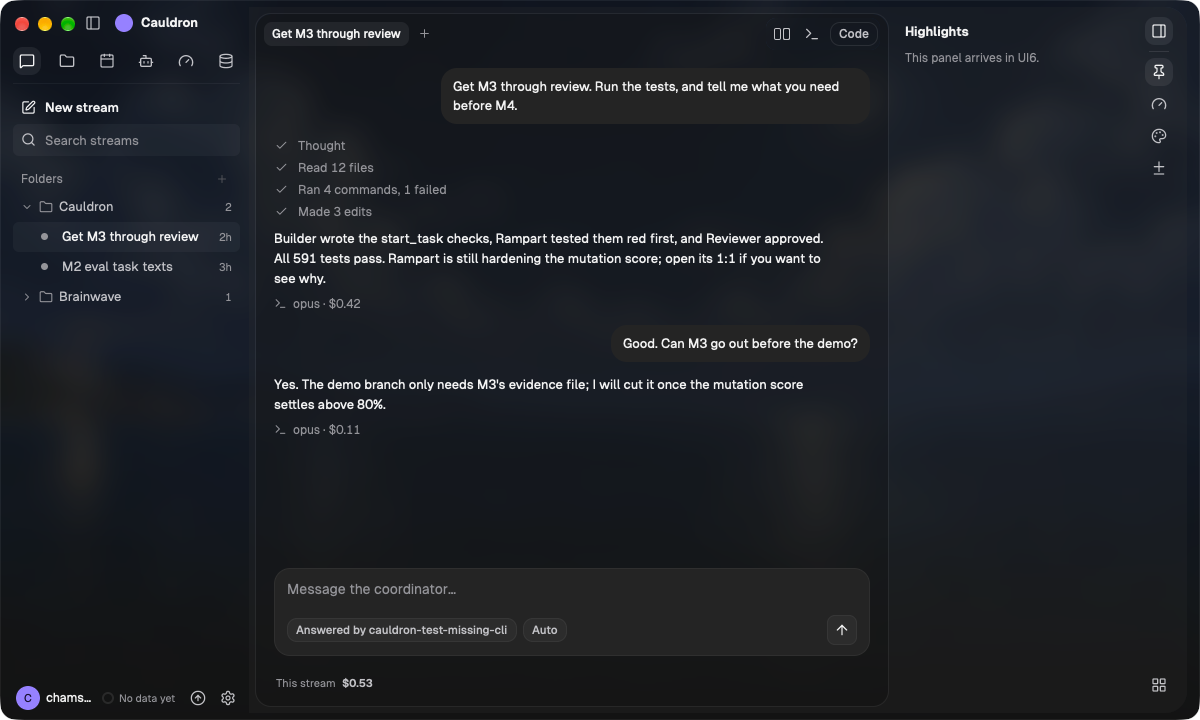
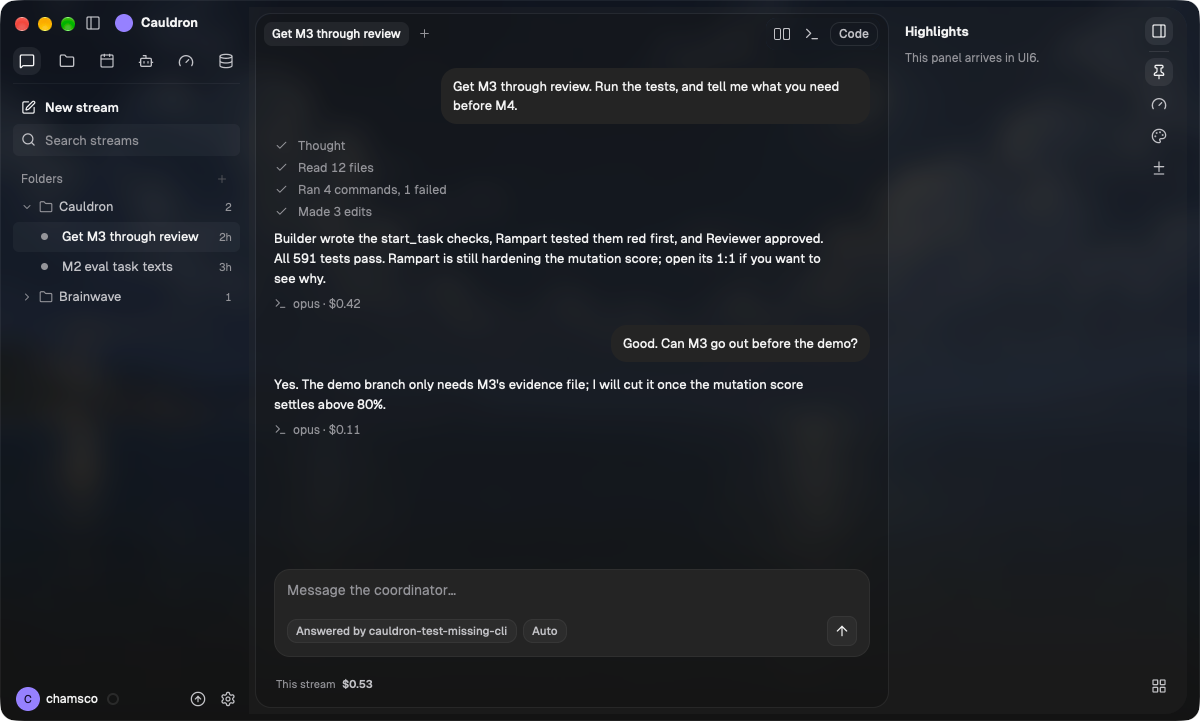
Footer: ring only without usage data; drawer and composer text truncate

diff --git a/crates/app/src/shell/pages.rs b/crates/app/src/shell/pages.rs
@@ -331,8 +331,8 @@ impl Cauldron {
                 .text_size(px(13.))
                 .text_color(c(pal.fg4))
                 .aria_label("Not connected")
-                .child(div().flex_1().child(format!("Not connected: messages to {title} are not sent yet")))
-                .child(div().size(px(28.)).rounded_full().flex().items_center().justify_center().bg(c(pal.hover)).child(glyph("arrow-up", 14., c(pal.fg4)))),
+                .child(div().flex_1().min_w_0().truncate().child(format!("Not connected: messages to {title} are not sent yet")))
+                .child(div().flex_none().size(px(28.)).rounded_full().flex().items_center().justify_center().bg(c(pal.hover)).child(glyph("arrow-up", 14., c(pal.fg4)))),
             "Demo: not built yet",
             Side::Right,
             pal,
@@ -384,9 +384,11 @@ impl Cauldron {
                 .flex()
                 .items_center()
                 .gap(px(8.))
+                .flex_1()
+                .min_w_0()
                 .aria_label(format!("{label} {pct}% (example)"))
                 .child(div().size(px(36.)).flex_none().rounded_full().border_2().border_color(if pct >= 80 { c(pal.warn) } else { c(pal.line_strong) }).flex().items_center().justify_center().text_size(px(10.)).font_weight(FontWeight::SEMIBOLD).text_color(fg).child(format!("{pct}%")))
-                .child(div().flex().flex_col().child(div().text_size(px(11.)).text_color(fg2).child(label)).child(div().text_size(px(10.)).text_color(fg3).child(sub)))
+                .child(div().flex_1().min_w_0().flex().flex_col().child(div().truncate().text_size(px(11.)).text_color(fg2).child(label)).child(div().truncate().text_size(px(10.)).text_color(fg3).child(sub)))
                 .test_support()
         };
         let mut tree = div().id("context-treemap").h(px(64.)).flex().gap(px(2.));
@@ -407,7 +409,7 @@ impl Cauldron {
             .flex_col()
             .gap(px(8.))
             .child(div().flex().items_center().gap(px(8.)).child(figure(a.dot, a.mood, 30., false)).child(div().flex_1().min_w_0().flex().flex_col().child(div().text_size(px(14.)).font_weight(FontWeight::SEMIBOLD).text_color(fg).child(a.name.clone())).child(div().truncate().text_size(px(11.)).text_color(fg3).child(a.job.clone()))).child(tag("drawer-example", "Example", pal).test_support()))
-            .child(div().flex().gap(px(16.)).child(ring("ring-week", 91, "Weekly", "Resets Mon 09:00")).child(ring("ring-5h", 12, "5-hour", "12% of 5 hours")))
+            .child(div().flex().gap(px(10.)).child(ring("ring-week", 91, "Weekly", "Resets Mon")).child(ring("ring-5h", 12, "5-hour", "12% used")))
             .child(head("Current task"))
             .child(div().p(px(8.)).rounded(px(radius::INNER)).bg(c(pal.inset)).text_size(px(12.)).text_color(fg2).child(if a.name == "Librarian" { "Reading the room and filing two notes to the Friday demo folder." } else { "Reading the receipt flow and splitting the work." }))
             .child(head("Context"))

diff --git a/crates/app/src/shell.rs b/crates/app/src/shell.rs
@@ -813,8 +813,8 @@ impl Cauldron {
             .text_color(fg3)
     }
 
-    /// Usage: a ring and its number where core reports usage, "No data yet" until then; hovering
-    /// shows the card, a click opens the Usage page. Core has no per-subscription usage yet.
+    /// Usage: a ring (with its number where core reports usage; with none, "No data yet" is in its
+    /// name and tip, so the user's name keeps its room); a click opens the Usage page. Core has no per-subscription usage yet.
     fn usage_ring(&self, id: &'static str, pal: &'static Palette, cx: &mut Context<Self>) -> Stateful<Div> {
         let rail = id == "rail-usage";
         let el = div()
@@ -823,18 +823,17 @@ impl Cauldron {
             .flex()
             .items_center()
             .gap(px(5.))
-            .px(px(if rail { 0. } else { 4. }))
+            .p(px(if rail { 0. } else { 3. }))
             .rounded(px(radius::TAG))
             .cursor_pointer()
             .hover(|d| d.bg(c(pal.hover)))
             .aria_label("No data yet")
             .child(div().size(px(if rail { 20. } else { 12. })).my(px(if rail { 4. } else { 0. })).rounded_full().border_2().border_color(c(pal.line_strong)))
-            .when_live(!rail, |d| d.child(div().text_size(px(10.5)).text_color(c(pal.fg3)).child("No data yet")))
             .on_click(cx.listener(|this, _, _, cx| {
                 this.open_page(pages::AppPage::Usage);
                 cx.notify();
             }));
-        self.tipped((id, 1usize), el, "Usage: no data yet. Core does not report it per subscription.", if rail { Side::Right } else { Side::Right }, pal, cx)
+        self.tipped((id, 1usize), el, "Usage: no data yet. Core does not report it per subscription.", Side::Right, pal, cx)
     }
 
     /// The version, as a small button by the cog: it opens Settings > General, where the version

diff --git a/docs/cauldron/NEW-LOOK-BUILD.md b/docs/cauldron/NEW-LOOK-BUILD.md
@@ -295,7 +295,7 @@ These are Charles's 07:34Z list and 13:40Z note ("not as tabs, they need to repl
 - Move to folder is not built. A stream's project is where its CLI runs (`chat.rs`: "the project folder a CLI works in"), so moving one would change where it runs.
 
 **User row and folded rail.**
-- Unfolded: the name with usage beside it ("No data yet": core has no per-subscription usage), the version button (an icon; it opens Settings > General, which shows the version and says updates come from the release workflow), and the cog.
+- Unfolded: the name with the usage ring beside it (with no data, "No data yet" is in its tip: core has no per-subscription usage), the version button (an icon; it opens Settings > General, which shows the version and says updates come from the release workflow), and the cog.
 - Folded rail, top to bottom: a usage ring (empty), the three apps, search (opens the sidebar), New stream, a square per folder (its letter, a dot over a waiting stream; it opens the sidebar on that folder), then the version, the cog and the avatar at the foot.
 
 **The right rail.** It always stands at the Shell's right edge, its icons stacked: the drawer's toggle (lit while open), a hairline, then the panels (the open one lit). The open drawer sits beside it; there is no horizontal strip. The card is about 50px narrower with the drawer open, and the minimum-width rule closes Split and then the drawer a little sooner. Solver test red first: `NL12-rail-red.txt` / `NL12-rail-green.txt`.
@@ -336,7 +336,8 @@ The coordinator's board is `design/cauldron-destinations.html` (ac5ef7a on gg3og
 - Folded, the same six stack on the rail.
 
 **Usage:**
-- An empty ring and "No data yet" sit beside the name; core has no usage per subscription. Hovering shows its tip, and a click opens the Usage page.
+- An empty ring sits beside the name; core has no usage per subscription. With no data the ring stands alone, so the name keeps its room: "No data yet" is in its tip and accessible name. A click opens the Usage page.
+- The agent drawer's ring captions and the room's composer text truncate inside their box, so nothing runs into the rail or cuts off the send button.
 - On the folded rail the ring sits at the foot, above version, cog and avatar.
 
 **The Agents demo:**
